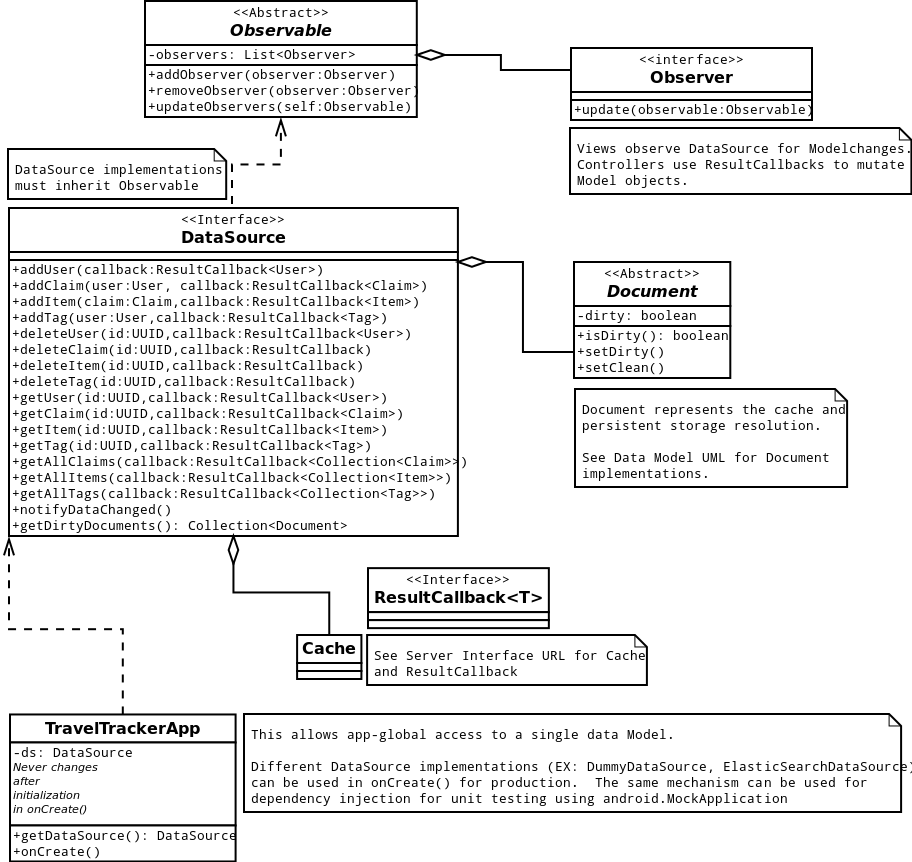
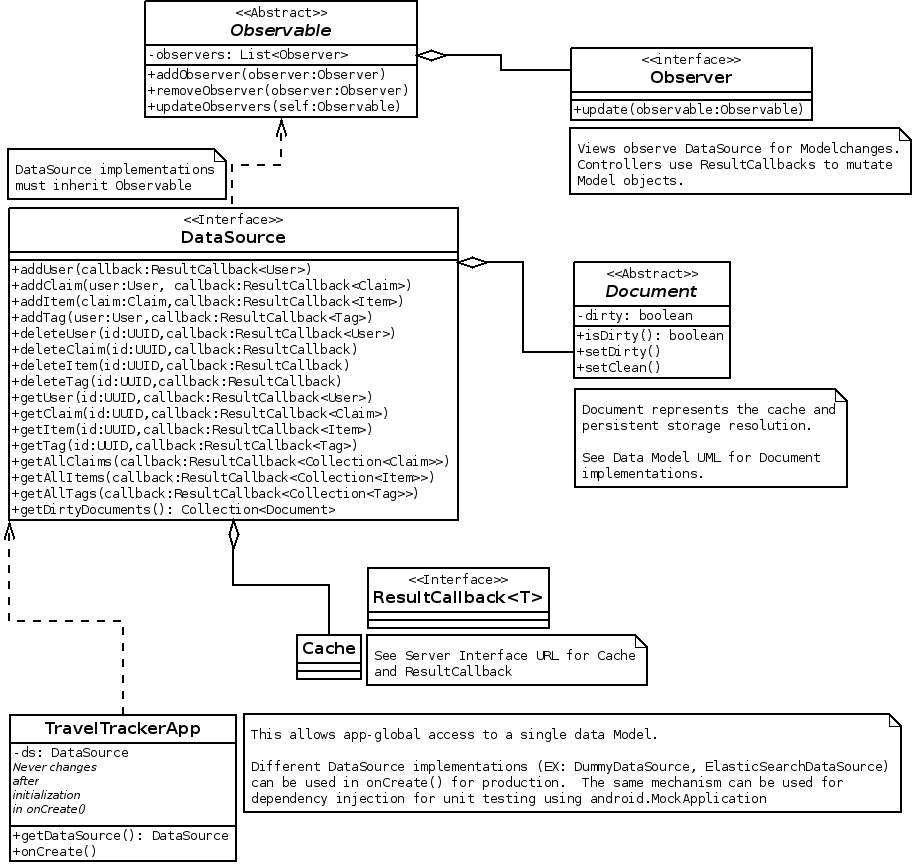
make non-Document model objects immutable. add observer updates to all Document subclass setters.  remove passive model notify from DataSource.  update UML to reflect changes.
closes #63

diff --git a/src/cmput301w15t07/TravelTracker/model/Claim.java b/src/cmput301w15t07/TravelTracker/model/Claim.java
@@ -54,42 +54,55 @@ public class Claim extends Document {
 	}
 	public void setName(String name) {
 		this.name = name;
+		this.updateObservers(this);
 	}
+	
 	public Status getStatus() {
 		return status;
 	}
 	public void setStatus(Status status) {
 		this.status = status;
+		this.updateObservers(this);
 	}
+	
 	public Date getStartDate() {
 		return startDate;
 	}
 	public void setStartDate(Date startDate) {
 		this.startDate = startDate;
+		this.updateObservers(this);
 	}
+	
 	public Date getEndDate() {
 		return endDate;
 	}
 	public void setEndDate(Date endDate) {
 		this.endDate = endDate;
+		this.updateObservers(this);
 	}
+	
 	public ArrayList<Destination> getDestinations() {
 		return destinations;
 	}
 	public void setDestinations(ArrayList<Destination> destinations) {
 		this.destinations = destinations;
+		this.updateObservers(this);
 	}
+	
 	public ArrayList<Item> getItems() {
 		return items;
 	}
 	public void setItems(ArrayList<Item> items) {
 		this.items = items;
+		this.updateObservers(this);
 	}
+	
 	public ArrayList<ApproverComment> getComments() {
 		return comments;
 	}
 	public void setComments(ArrayList<ApproverComment> comments) {
 		this.comments = comments;
+		this.updateObservers(this);
 	}
 	
 }

diff --git a/src/cmput301w15t07/TravelTracker/model/Item.java b/src/cmput301w15t07/TravelTracker/model/Item.java
@@ -54,36 +54,47 @@ public class Item extends Document {
 	}
 	public void setDescription(String description) {
 		this.description = description;
+		this.updateObservers(this);
 	}
+	
 	public ItemCategory getCategory() {
 		return category;
 	}
 	public void setCategory(ItemCategory category) {
 		this.category = category;
+		this.updateObservers(this);
 	}
+	
 	public Date getDate() {
 		return date;
 	}
 	public void setDate(Date date) {
 		this.date = date;
+		this.updateObservers(this);
 	}
+	
 	public Float getAmmount() {
 		return ammount;
 	}
 	public void setAmmount(Float ammount) {
 		this.ammount = ammount;
+		this.updateObservers(this);
 	}
+	
 	public Currency getCurrency() {
 		return currency;
 	}
 	public void setCurrency(Currency currency) {
 		this.currency = currency;
+		this.updateObservers(this);
 	}
+	
 	public Receipt getReceipt() {
 		return receipt;
 	}
 	public void setReceipt(Receipt receipt) {
 		this.receipt = receipt;
+		this.updateObservers(this);
 	}
 	
 }

diff --git a/src/cmput301w15t07/TravelTracker/model/ApproverComment.java b/src/cmput301w15t07/TravelTracker/model/ApproverComment.java
@@ -6,6 +6,10 @@ import java.util.Date;
 /**
  * Model class for the Approver Comment.
  * 
+ * Setters are not exposed - object attributes are set at construction time.
+ * This is so that mutations must be made at the Claim for observer notification
+ * and cache dirtying.
+ * 
  * @author ryant26
  *
  */
@@ -14,23 +18,23 @@ public class ApproverComment {
 	private String comment;
 	private Date date;
 	
+	public ApproverComment(Approver approver, String comment, Date date) {
+		this.approver = approver;
+		this.comment = comment;
+		this.date = date;
+	}
+	
 	public Approver getApprover() {
 		return approver;
 	}
-	public void setApprover(Approver approver) {
-		this.approver = approver;
-	}
+
 	public String getComment() {
 		return comment;
 	}
-	public void setComment(String comment) {
-		this.comment = comment;
-	}
+
 	public Date getDate() {
 		return date;
 	}
-	public void setDate(Date date) {
-		this.date = date;
-	}
+
 	
 }

diff --git a/src/cmput301w15t07/TravelTracker/model/Destination.java b/src/cmput301w15t07/TravelTracker/model/Destination.java
@@ -24,6 +24,10 @@ package cmput301w15t07.TravelTracker.model;
 /**
  * Model object for Claim Destinations.
  * 
+ * Setters are not exposed - object attributes are set at construction time.
+ * This is so that mutations must be made at the Claim for observer notification
+ * and cache dirtying.
+ * 
  * @author kdbanman
  *
  */
@@ -31,17 +35,17 @@ public class Destination {
 	private String location;
 	private String reason;
 	
+	public Destination(String location, String reason) {
+		this.location = location;
+		this.reason = reason;
+	}
+	
 	public String getLocation() {
 		return location;
 	}
-	public void setLocation(String location) {
-		this.location = location;
-	}
+
 	public String getReason() {
 		return reason;
-	}
-	public void setReason(String reason) {
-		this.reason = reason;
 	}
 	
 }

diff --git a/src/cmput301w15t07/TravelTracker/model/Receipt.java b/src/cmput301w15t07/TravelTracker/model/Receipt.java
@@ -24,19 +24,24 @@ import android.graphics.Bitmap;
  */
 
 /**
- * Model object for expense Item Receipt data.  (i.e. images)
+ * Model object for expense Item Receipt data.  (i.e. image)
+ * 
+ * Setters are not exposed - object attributes are set at construction time.
+ * This is so that mutations must be made at the Claim for observer notification
+ * and cache dirtying.
  * 
  * @author kdbanman
  *
  */
 public class Receipt {
 	private Bitmap photo;
+	
+	public Receipt(Bitmap photo) {
+		this.photo = photo;
+	}
 
 	public Bitmap getPhoto() {
 		return photo;
 	}
 
-	public void setPhoto(Bitmap photo) {
-		this.photo = photo;
-	}
 }

diff --git a/src/cmput301w15t07/TravelTracker/model/DataSource.java b/src/cmput301w15t07/TravelTracker/model/DataSource.java
@@ -55,12 +55,6 @@ public interface DataSource {
 	public void getAllTags(UUID id, ResultCallback<Collection<Tag>> callback);
 	
 	/**
-	 * To be called by model objects within their setters.
-	 * Should result in update calls to all DataSource Observers.
-	 */
-	public void notifyDataChanged();
-	
-	/**
 	 * @return A collection of all documents served by the DataSource which have
 	 * marked themselves dirty.
 	 */

diff --git a/src/cmput301w15t07/TravelTracker/model/InMemoryDataSource.java b/src/cmput301w15t07/TravelTracker/model/InMemoryDataSource.java
@@ -122,12 +122,6 @@ public class InMemoryDataSource extends Observable<InMemoryDataSource> implement
 	}
 
 	@Override
-	public void notifyDataChanged() {
-		// TODO Auto-generated method stub
-
-	}
-
-	@Override
 	public Collection<Document> getDirtyDocuments() {
 		// this is for caching, probably not meaningful for in-memory storage.
 		return null;

diff --git a/src/cmput301w15t07/TravelTracker/model/Claimant.java b/src/cmput301w15t07/TravelTracker/model/Claimant.java
@@ -42,6 +42,7 @@ public class Claimant extends User{
 
 	public void setTags(ArrayList<Tag> tags) {
 		this.tags = tags;
+		this.updateObservers(this);
 	}
 	
 }

diff --git a/src/cmput301w15t07/TravelTracker/model/Tag.java b/src/cmput301w15t07/TravelTracker/model/Tag.java
@@ -48,5 +48,6 @@ public class Tag extends Document {
 
 	public void setTitle(String title) {
 		this.title = title;
+		this.updateObservers(this);
 	}
 }
